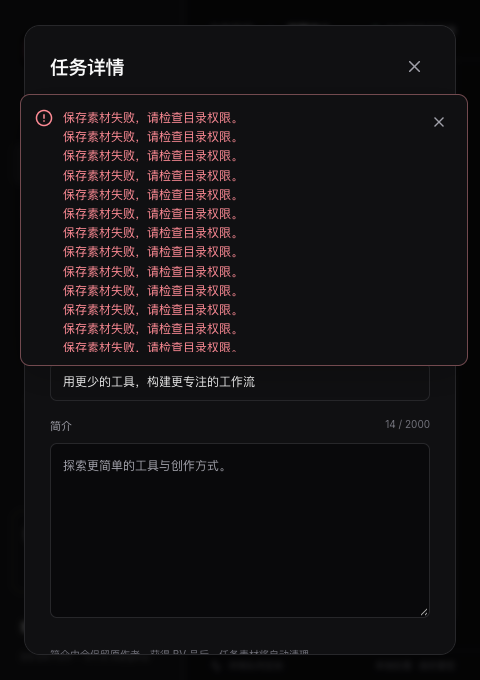
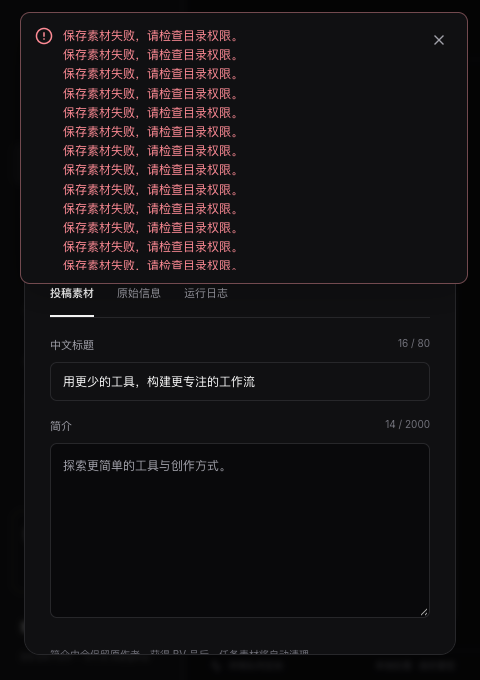
Keep toast viewport anchored to window
Toast popovers now stay anchored to the app window instead of tracking individual dialog headers, so errors and success toasts remain visible across nested dialogs, page changes, and resizing. The E2E suite adds coverage for window-position stability and usability after dialogs close, and updated toast snapshots reflect the new placement.

diff --git a/desktop/e2e/toast.spec.ts b/desktop/e2e/toast.spec.ts
@@ -55,6 +55,18 @@ async function expectCloseButtonReachable(toast: Locator) {
     .toBe(true);
 }
 
+async function expectWindowPosition(page: Page) {
+  await expect
+    .poll(() =>
+      page.locator(".toast-viewport").evaluate((element) => {
+        const box = element.getBoundingClientRect();
+        const margin = innerWidth <= 600 ? 12 : 20;
+        return { top: box.top - margin, right: innerWidth - box.right - margin };
+      }),
+    )
+    .toEqual({ top: 0, right: 0 });
+}
+
 for (const theme of ["dark", "light"] as const) {
   for (const length of ["short", "long"] as const) {
     test(`${theme} ${length} errors stay fully visible above a scrolling task dialog`, async ({
@@ -83,6 +95,7 @@ for (const theme of ["dark", "light"] as const) {
       });
       const toast = detail.getByRole("alert");
       await expect(toast).toContainText(message);
+      await expectWindowPosition(page);
       await expectCloseButtonReachable(toast);
       const bounds = await toast.evaluate((element) => {
         const box = element.getBoundingClientRect();
@@ -117,13 +130,14 @@ for (const theme of ["dark", "light"] as const) {
         });
       }
       await expectCloseButtonReachable(toast);
+      await expectWindowPosition(page);
       await toast.getByRole("button", { name: "关闭错误提示" }).click();
       await expect(toast).toHaveCount(0);
     });
   }
 }
 
-test("one toast viewport follows nested dialogs and remains usable after they close", async ({
+test("toasts keep their window position through nested dialogs and closing them", async ({
   page,
 }) => {
   await page.emulateMedia({ reducedMotion: "reduce" });
@@ -134,12 +148,14 @@ test("one toast viewport follows nested dialogs and remains usable after they cl
   await page.locator("button.task-row").first().click();
   const detail = page.getByRole("dialog", { name: "任务详情", exact: true });
   await expect(detail.getByRole("alert")).toBeVisible();
+  await expectWindowPosition(page);
   await detail.getByRole("button", { name: "继续任务", exact: true }).click();
   const choice = page.getByRole("dialog", {
     name: "选择继续任务的投稿模式",
     exact: true,
   });
   await expect(choice.getByRole("alert")).toContainText(cancelledMessage);
+  await expectWindowPosition(page);
   await expect(page.locator(".toast-viewport")).toHaveCount(1);
   await choice.getByRole("button", { name: "继续任务", exact: true }).click();
   const error = choice
@@ -150,9 +166,12 @@ test("one toast viewport follows nested dialogs and remains usable after they cl
   await page.clock.runFor(1);
   await choice.getByRole("button", { name: "取消", exact: true }).click();
   await expect(detail.getByRole("alert")).toContainText(cancelledMessage);
-  await detail.getByRole("button", { name: "关闭对话框", exact: true }).click();
+  await expectWindowPosition(page);
+  await page.keyboard.press("Escape");
+  await expect(detail).toHaveCount(0);
   const toast = page.getByRole("alert");
   await expect(toast).toContainText(cancelledMessage);
+  await expectWindowPosition(page);
   await expect(page.locator(".toast-viewport")).toHaveCount(1);
   await expectCloseButtonReachable(toast);
   await toast.getByRole("button", { name: "关闭错误提示" }).click();
@@ -178,9 +197,47 @@ test("toasts follow a dialog opened later even when it comes first in DOM order"
   });
   const toast = create.getByRole("alert");
   await expect(toast).toContainText(cancelledMessage);
+  await expectWindowPosition(page);
   await expectCloseButtonReachable(toast);
   await expect(page.locator(".toast-viewport")).toHaveCount(1);
-  await create.getByRole("button", { name: "关闭对话框", exact: true }).click();
+  await page.keyboard.press("Escape");
+  await expect(create).toHaveCount(0);
   await expect(detail.getByRole("alert")).toBeVisible();
+  await expectWindowPosition(page);
   await expectCloseButtonReachable(detail.getByRole("alert"));
+});
+
+test("success messages stay anchored to the window across pages, dialogs and resizing", async ({
+  page,
+}) => {
+  await page.emulateMedia({ reducedMotion: "reduce" });
+  await page.goto("/?preview&populated&accounts=1");
+  await page.clock.install({ time: new Date("2026-10-14T00:00:00Z") });
+  await page.clock.pauseAt(new Date("2026-10-14T00:00:01Z"));
+  await page.getByRole("button", { name: "设置", exact: true }).click();
+  await page.getByRole("button", { name: "保存设置", exact: true }).click();
+  const toast = page.locator(".success-toast");
+  await expect(toast).toContainText("设置已保存。");
+  await expectWindowPosition(page);
+  await page.getByRole("button", { name: /^投稿中心/ }).click();
+  await expectWindowPosition(page);
+  await page.locator("button.task-row").first().click();
+  const detail = page.getByRole("dialog", { name: "任务详情", exact: true });
+  await expect(detail.locator(".success-toast")).toBeVisible();
+  await expectWindowPosition(page);
+  for (const size of [
+    { width: 1440, height: 900 },
+    { width: 480, height: 680 },
+    { width: 1280, height: 800 },
+  ]) {
+    await page.setViewportSize(size);
+    await expectWindowPosition(page);
+    await expect(toast).toBeVisible();
+  }
+  await page.keyboard.press("Escape");
+  await expect(detail).toHaveCount(0);
+  await expectWindowPosition(page);
+  await toast.getByRole("button", { name: "关闭成功提示" }).click();
+  await page.clock.runFor(1);
+  await expect(toast).toHaveCount(0);
 });

diff --git a/desktop/src/Toast.tsx b/desktop/src/Toast.tsx
@@ -39,7 +39,6 @@ export function ToastViewport() {
   useUiLanguage();
   const { toasts, dismissToast } = useToast();
   const ref = useRef<HTMLDivElement>(null);
-  const [top, setTop] = useState<number>();
   useLayoutEffect(() => {
     const viewport = ref.current;
     if (!viewport?.isConnected) return;
@@ -47,31 +46,8 @@ export function ToastViewport() {
     if (toasts.length && !open) viewport.showPopover();
     else if (!toasts.length && open) viewport.hidePopover();
   }, [toasts.length]);
-  useLayoutEffect(() => {
-    const dialog = ref.current?.closest("dialog");
-    if (!dialog) return;
-    const position = () => {
-      const close = dialog
-        .querySelector(".modal-head .icon-button")
-        ?.getBoundingClientRect();
-      const margin = window.innerWidth <= 600 ? 12 : 20;
-      setTop(close ? Math.max(margin, close.bottom + 12) : undefined);
-    };
-    position();
-    const observer = new ResizeObserver(position);
-    observer.observe(dialog);
-    const header = dialog.querySelector(".modal-head");
-    if (header) observer.observe(header);
-    document.addEventListener("scroll", position, true);
-    window.addEventListener("resize", position);
-    return () => {
-      observer.disconnect();
-      document.removeEventListener("scroll", position, true);
-      window.removeEventListener("resize", position);
-    };
-  }, []);
   return (
-    <div ref={ref} className="toast-viewport" popover="manual" style={{ top }}>
+    <div ref={ref} className="toast-viewport" popover="manual">
       {toasts.map((toast) => (
         <div
           className={`toast ${toast.kind}-toast${toast.exiting ? " exiting" : ""}`}
@@ -173,7 +149,8 @@ export function ToastProvider({ children }: { children: ReactNode }) {
     let stack: HTMLDialogElement[] = [];
     const syncContainer = (records: MutationRecord[] = []) => {
       // Keep toast controls in the active dialog's focus scope, while the
-      // popover top layer lets them escape its scrolling/clipping boundary.
+      // popover top layer keeps their position relative to the app viewport,
+      // outside the dialog's scrolling/clipping boundary.
       const dialogs = Array.from(
         document.querySelectorAll<HTMLDialogElement>("dialog[open]"),
       ).filter((dialog) => dialog.matches(":modal"));
